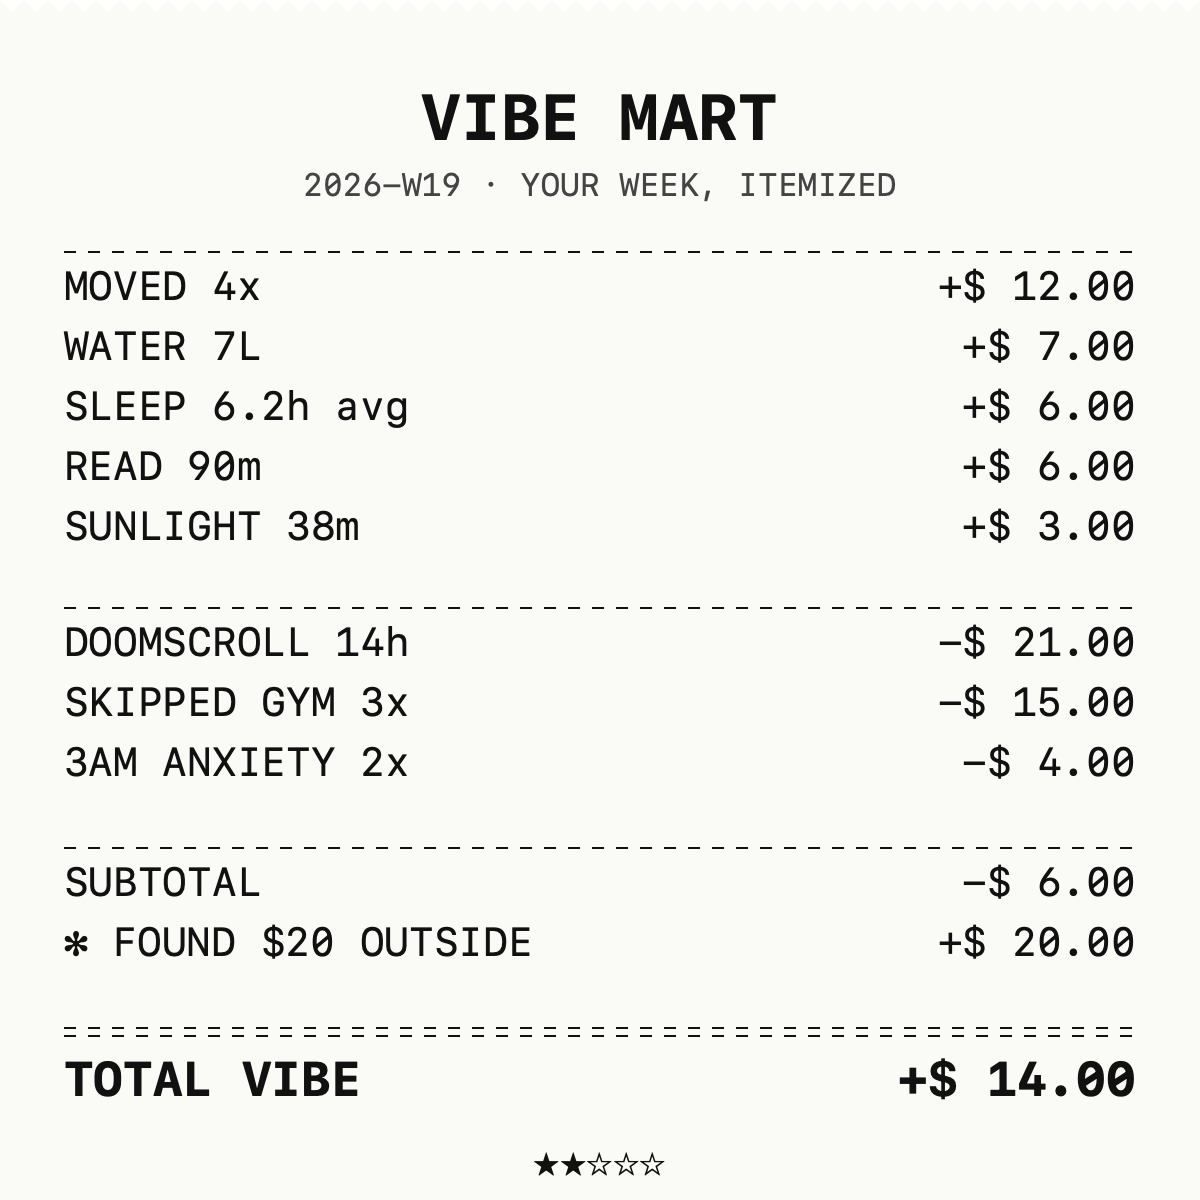
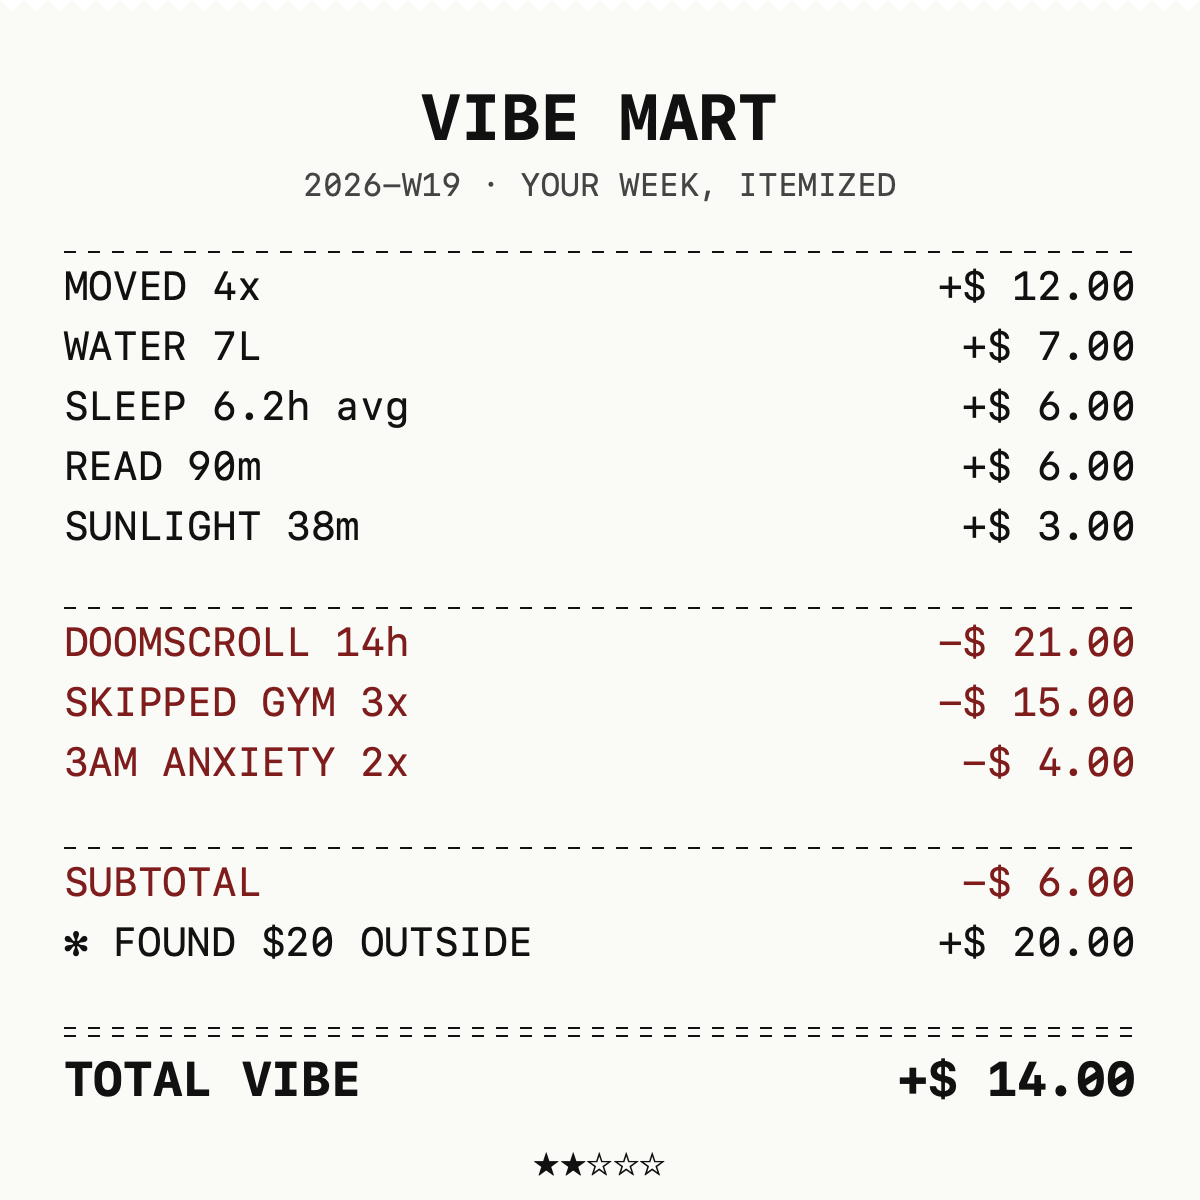
fix: drop clock fallback (date_label required), red ink for debits, acknowledge codex-receipts

diff --git a/src/pricing.ts b/src/pricing.ts
@@ -12,7 +12,7 @@ export interface WeekInput {
   skipped_gym: number;           // count of skipped commitments
   late_night_anxiety: number;    // count of 3am-thought nights
   random_joy?: string;           // free-form "found $20" line (optional)
-  date_label?: string;           // e.g. "2026-W19"
+  date_label: string;            // e.g. "2026-W19" — REQUIRED, no clock fallback
 }
 
 export interface LineItem {
@@ -82,9 +82,8 @@ export function priceWeek(input: WeekInput): ReceiptData {
 
   const total = subtotal + (bonus?.amount ?? 0);
   const stars = starRating(total);
-  const date_label = input.date_label || isoWeekLabel(new Date());
 
-  return { date_label, credits, debits, bonus, subtotal, total, stars };
+  return { date_label: input.date_label, credits, debits, bonus, subtotal, total, stars };
 }
 
 function sum(items: LineItem[]): number {
@@ -97,15 +96,6 @@ function starRating(total: number): number {
   if (total >= 20) return 3;
   if (total >= 0)  return 2;
   return 1;
-}
-
-function isoWeekLabel(d: Date): string {
-  const t = new Date(Date.UTC(d.getUTCFullYear(), d.getUTCMonth(), d.getUTCDate()));
-  const dayNum = t.getUTCDay() || 7;
-  t.setUTCDate(t.getUTCDate() + 4 - dayNum);
-  const yearStart = new Date(Date.UTC(t.getUTCFullYear(), 0, 1));
-  const weekNum = Math.ceil(((t.getTime() - yearStart.getTime()) / 86400000 + 1) / 7);
-  return `${t.getUTCFullYear()}-W${String(weekNum).padStart(2, "0")}`;
 }
 
 export function demoWeek(): WeekInput {

diff --git a/src/prompts.ts b/src/prompts.ts
@@ -14,10 +14,12 @@ async function askStr(rl: ReturnType<typeof createInterface>, q: string): Promis
   return raw;
 }
 
-export async function interactiveWeek(): Promise<WeekInput> {
+export async function interactiveWeek(defaultWeekLabel: string): Promise<WeekInput> {
   const rl = createInterface({ input: stdin, output: stdout });
   try {
-    stdout.write("vibe mart — answer 8 quick questions about your past 7 days (press enter to skip):\n\n");
+    stdout.write("vibe mart — answer 9 quick questions about your past 7 days (press enter to skip):\n\n");
+    const week_label_raw = await askStr(rl, `  week label? (e.g. ${defaultWeekLabel}) > `);
+    const date_label = week_label_raw || defaultWeekLabel;
     const movement_sessions   = await askNum(rl, "  how many workouts/walks? (e.g. 4) > ", 0);
     const water_liters        = await askNum(rl, "  total water (liters)? (e.g. 7) > ", 0);
     const sleep_hours_avg     = await askNum(rl, "  avg sleep hours/night? (e.g. 6.5) > ", 0);
@@ -29,6 +31,7 @@ export async function interactiveWeek(): Promise<WeekInput> {
     const random_joy          = await askStr(rl, "  one good thing this week (≤20 chars, optional) > ");
     stdout.write("\n");
     return {
+      date_label,
       movement_sessions, water_liters, sleep_hours_avg,
       read_minutes_total, sunlight_minutes_total,
       doomscroll_hours, skipped_gym, late_night_anxiety,

diff --git a/src/index.ts b/src/index.ts
@@ -5,6 +5,19 @@ import { priceWeek, demoWeek, type WeekInput } from "./pricing.js";
 import { renderReceipt } from "./render.js";
 import { interactiveWeek } from "./prompts.js";
 
+// Compute current ISO week label as a *display default* for interactive mode.
+// The artifact itself never embeds this without explicit user confirmation —
+// keeps the byte-identical-per-week property intact.
+function todayWeekLabel(): string {
+  const d = new Date();
+  const t = new Date(Date.UTC(d.getUTCFullYear(), d.getUTCMonth(), d.getUTCDate()));
+  const dayNum = t.getUTCDay() || 7;
+  t.setUTCDate(t.getUTCDate() + 4 - dayNum);
+  const yearStart = new Date(Date.UTC(t.getUTCFullYear(), 0, 1));
+  const weekNum = Math.ceil(((t.getTime() - yearStart.getTime()) / 86400000 + 1) / 7);
+  return `${t.getUTCFullYear()}-W${String(weekNum).padStart(2, "0")}`;
+}
+
 function usage(): never {
   process.stdout.write(
     [
@@ -51,8 +64,12 @@ async function main(): Promise<void> {
       process.exit(2);
     }
     week = JSON.parse(readFileSync(resolve(input), "utf8"));
+    if (!week.date_label) {
+      process.stderr.write("vibereceipt: input JSON must include `date_label` (e.g. \"2026-W19\")\n");
+      process.exit(2);
+    }
   } else {
-    week = await interactiveWeek();
+    week = await interactiveWeek(todayWeekLabel());
   }
 
   const data = priceWeek(week);

diff --git a/src/render.ts b/src/render.ts
@@ -20,9 +20,12 @@ function fmt(amount: number): string {
 function row(y: number, label: string, amount: number): string {
   const labelX = PAD;
   const amountX = W - PAD;
+  // Debits get a slightly redder ink — same monospace, just darker red — so the
+  // joke (DOOMSCROLL 14h −$21) is legible at thumbnail size.
+  const fill = amount < 0 ? "#7f1d1d" : "#111";
   return `
-    <text x="${labelX}" y="${y}" font-family="ui-monospace, 'SF Mono', Menlo, Consolas, monospace" font-size="20" fill="#111">${esc(label)}</text>
-    <text x="${amountX}" y="${y}" text-anchor="end" font-family="ui-monospace, 'SF Mono', Menlo, Consolas, monospace" font-size="20" fill="#111">${esc(fmt(amount))}</text>`;
+    <text x="${labelX}" y="${y}" font-family="ui-monospace, 'SF Mono', Menlo, Consolas, monospace" font-size="20" fill="${fill}">${esc(label)}</text>
+    <text x="${amountX}" y="${y}" text-anchor="end" font-family="ui-monospace, 'SF Mono', Menlo, Consolas, monospace" font-size="20" fill="${fill}">${esc(fmt(amount))}</text>`;
 }
 
 function divider(y: number): string {

diff --git a/test/determinism.test.ts b/test/determinism.test.ts
@@ -15,3 +15,14 @@ test("different week_label changes the barcode pattern", () => {
   const b = renderReceipt(priceWeek({ ...week, date_label: "2026-W20" }));
   assert.notEqual(a, b);
 });
+
+test("date_label is required (no clock fallback)", () => {
+  // TypeScript enforces this at compile time, but verify the runtime contract too:
+  // a stats struct missing date_label must not silently fall back to Date.now().
+  const week = demoWeek();
+  const result = priceWeek({ ...week, date_label: "2026-W19" });
+  assert.equal(result.date_label, "2026-W19");
+  // Prove the struct shape: date_label is a required string, not optional.
+  const sig: keyof typeof week = "date_label";
+  assert.equal(typeof week[sig], "string");
+});

diff --git a/test/pricing.test.ts b/test/pricing.test.ts
@@ -13,6 +13,7 @@ test("demoWeek prices to a known positive total", () => {
 
 test("all-zero week is a Common rating", () => {
   const r = priceWeek({
+    date_label: "2026-W19",
     movement_sessions: 0, water_liters: 0, sleep_hours_avg: 0,
     read_minutes_total: 0, sunlight_minutes_total: 0,
     doomscroll_hours: 0, skipped_gym: 0, late_night_anxiety: 0,
@@ -25,6 +26,7 @@ test("all-zero week is a Common rating", () => {
 
 test("doomscroll-heavy week goes negative", () => {
   const r = priceWeek({
+    date_label: "2026-W19",
     movement_sessions: 0, water_liters: 0, sleep_hours_avg: 0,
     read_minutes_total: 0, sunlight_minutes_total: 0,
     doomscroll_hours: 30, skipped_gym: 5, late_night_anxiety: 4,

diff --git a/BRIEF.md b/BRIEF.md
@@ -2,7 +2,7 @@
 
 **Angle:** A local CLI / Claude Code skill that turns the past 7 days of habits (8 quick prompts or a JSON file) into a thermal-receipt-style SVG. Credits for moving / sleeping / reading / sunlight; debits for doomscrolling / skipped gym / 3am anxiety. Self-reported, no judgment.
 
-**Closest incumbent:** https://huangdarren1106.github.io/receiptify (Receiptify — Spotify listening data as a thermal receipt, 1.2M generated as of 2026-04-08).
+**Closest incumbents:** https://huangdarren1106.github.io/receiptify (Receiptify — Spotify-listening as a thermal receipt, 1.2M generated 2026-04-08) and https://github.com/iamxoghks/codex-receipts (created 2026-05-01 — receipt of your *Codex coding session*, same thermal aesthetic). vibereceipt is the *human-week* version: not your music, not your coding session — your habits.
 
 **Structural advantage over it:** Receiptify cards your *listening data* via Spotify OAuth and only itemizes positives. vibereceipt cards your *whole week of self-tracking* with zero accounts, zero OAuth, and an explicit debit column (doomscroll, skipped gym, 3am anxiety) — which is where the joke and the relatability live. The artifact runs locally; your data never leaves your laptop. The Receiptify format works *because* people want to see their own version → vibereceipt extends that loop to health/habits, where Spotify can't reach.
 
@@ -15,7 +15,7 @@
 
 **Shareable artifact:** A 600×760 SVG (also rasterizable to PNG). Top-of-feed compatible aspect ratio. The artifact is the product.
 
-**Tech stack:** Node 20+, TypeScript, **zero runtime dependencies**. Pure string-template SVG. `npx github:KeWang0622/vibereceipt` works without any install.
+**Tech stack:** Node 20+, TypeScript, **zero runtime dependencies**. Pure string-template SVG. **Deterministic from input**: same `date_label` + same answers always produce a byte-identical SVG — no `Date.now()`, no `Math.random()` (verified by `test/determinism.test.ts`). `npx github:KeWang0622/vibereceipt` works without any install.
 
 **Risks:**
 1. Comedy quality of the pricing table — if the credits/debits feel arbitrary, the joke flops. (Mitigation: pricing rules are deterministic + tunable; the demo week is calibrated.)

diff --git a/LAUNCH/x.md b/LAUNCH/x.md
@@ -1,0 +1,11 @@
+# Launch tweet (user-typed at Gate 0)
+
+```
+your week, itemized 🧾
+
+[image: example.png]
+
+built as a claude skill, runs locally, your data never leaves your laptop — npx github:KeWang0622/vibereceipt
+```
+
+Pick a 1200×675 export of `assets/example.svg` as the attached image. The full SVG is taller (5:7-ish receipt aspect), so crop or letterbox to fit X's preview.
